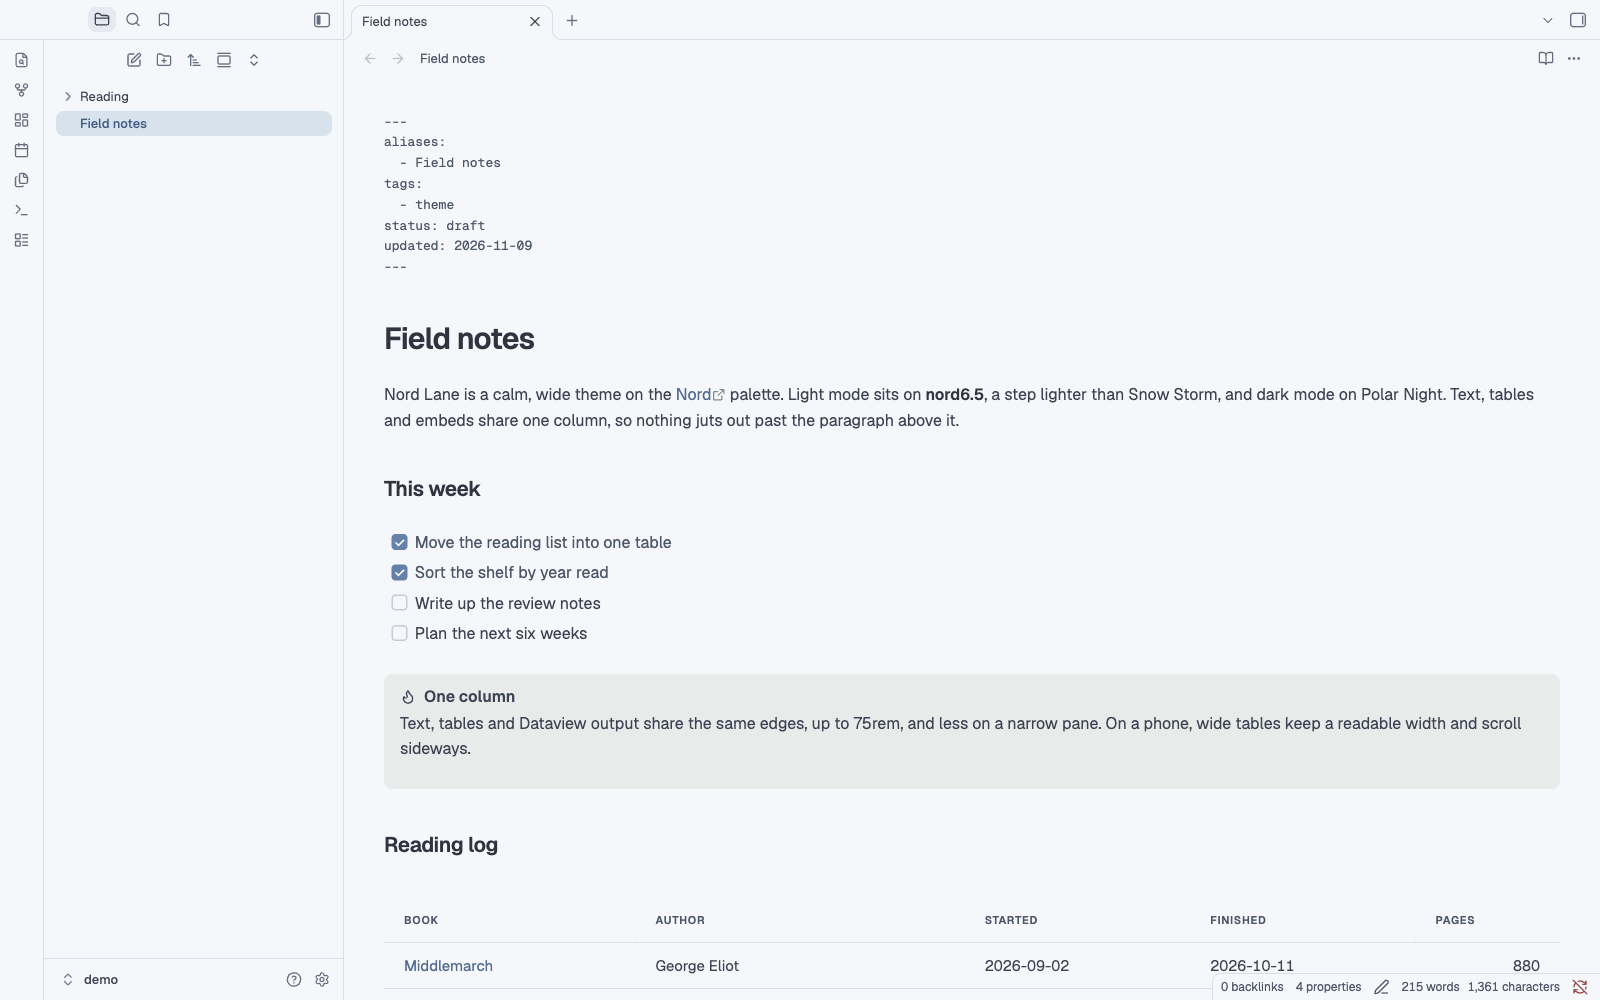
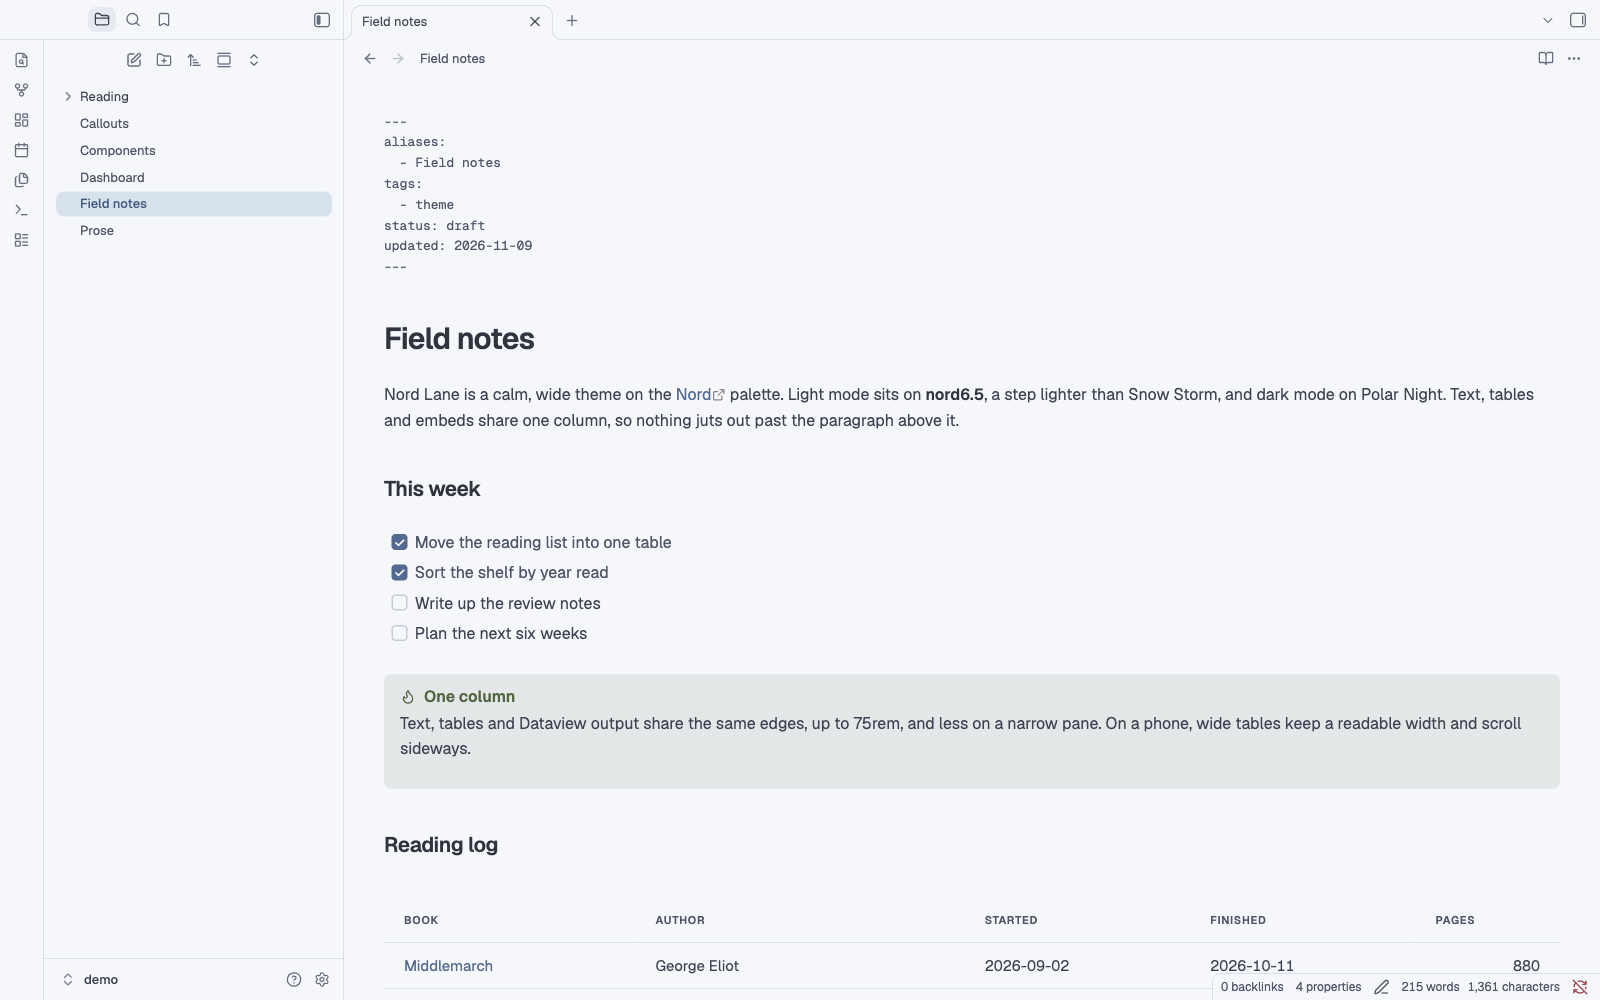
docs: document the nl-* and gc-* component classes
docs/components.md gives the markup each class expects: page head,
controls, sections, stats, tables with bands, totals and column helpers,
pills, heat cells and heatmaps, and cover cards with their corners,
variants, book stand-ins and filtering. demo/Components.md shows the
main pieces as static HTML, and its screenshot goes in the docs. The
README screenshots and cover.png are retaken to show the callout
colours.

Closes #5

Changed region(s): [[0.0312, 0.093, 0.2188, 0.217], [0.2812, 0.682, 0.3125, 0.713]]

diff --git a/docs/components.md b/docs/components.md
@@ -1,0 +1,133 @@
+# Components
+
+Nord Lane styles two families of classes for pages built with dataviewjs: `nl-*` for dashboards and `gc-*` for cover cards. The theme only styles them; your view writes the markup, usually with Obsidian's `createDiv` and `createEl`. They do nothing in notes that don't use them.
+
+`demo/Components.md` shows the main pieces as static HTML:
+
+![Components](../screenshots/components.png)
+
+## Page
+
+Wrap a view in `.nl-page`. It sets the 14 px base and tabular numbers. Separate its parts with `.nl-block`.
+
+```html
+<div class="nl-page">
+  <div class="nl-head nl-block">
+    <div>
+      <div class="nl-title">Reading</div>
+      <div class="nl-sub">A subtitle</div>
+    </div>
+    <div class="nl-controls">…</div>
+  </div>
+  <div class="nl-block">…</div>
+</div>
+```
+
+The controls are:
+
+- `button.nl-btn`: a button, optionally with an SVG icon.
+- `.nl-nav`: previous, label, next.
+- `.nl-chips > button.nl-chip-btn`: filter chips; add `.is-active` to the chosen one.
+
+## Sections
+
+```html
+<div class="nl-sec">
+  <div class="nl-sec-t">Week by week</div>
+  <div class="nl-sec-m">a note on the right</div>
+</div>
+```
+
+Section titles are the size of `##` in a note.
+
+## Stats
+
+```html
+<div class="nl-stats">
+  <div class="nl-stat">
+    <div class="nl-stat-v">12</div>
+    <div class="nl-stat-l">books this year</div>
+    <div class="nl-stat-s">8 finished</div>
+  </div>
+  …
+</div>
+```
+
+- **Layout:** six per row, three in a pane under 1,100 px, two under 700 px. `--nl-stat-cols` changes the count.
+- **Tone:** `.nl-tone-red`, `.nl-tone-green`, `.nl-tone-amber` or `.nl-tone-accent` on the value.
+
+## Tables
+
+```html
+<div class="nl-tablewrap">
+  <table class="nl-table">
+    <thead><tr><th>Book</th><th class="al-r">Pages</th></tr></thead>
+    <tbody>
+      <tr class="nl-group"><td colspan="2"><span>2026</span><span class="nl-count">3</span></td></tr>
+      <tr><td>Middlemarch</td><td class="al-r">880</td></tr>
+      <tr class="nl-total"><td>Total</td><td class="al-r">880</td></tr>
+    </tbody>
+  </table>
+</div>
+```
+
+- **Rows:** `tr.nl-group` is a band; `.nl-count` and `.nl-right` go inside it. `tr.nl-total` is the closing row.
+- **Columns:** `.al-r` and `.al-c` align a column. `.wrap` lets a cell wrap to two lines. `.nl-hide-sm` hides a column under 700 px, and `.nl-hide-md` under 1,100 px.
+- **Narrow panes:** under 700 px, `table.nl-stack` turns rows into stacked entries, labelled by each cell's `data-label`.
+- **Wide tables:** `.nl-regular` and `.nl-turned` hold a wide table and its turned version, one row per week or month. The turned one shows in panes under 1,180 px.
+- **Inside cells:**
+  - `.nl-pill.accent`, `.green`, `.amber`, `.red`, `.violet` or `.neutral`
+  - `.nl-heat.l1`, `.l2` or `.l3`: a heat cell
+  - `.nl-chip`
+  - `.nl-muted`, `.nl-faint`
+  - `.nl-trunc`: an ellipsis
+  - `.nl-thumb`: a small image
+
+## Heat
+
+The three shades are `--nl-heat-1`, `--nl-heat-2` and `--nl-heat-3`, and `--nl-on-heat-1/2/3` is the text on each. Both pass WCAG AA in both modes.
+
+```html
+<div class="nl-hm">
+  <div class="nl-heatmap">
+    <div class="nl-hm-col"><span class="nl-hm-m">Jan</span><i class="l1"></i><i></i><i class="l3"></i>…</div>
+    …
+  </div>
+  <div class="nl-legend">…</div>
+</div>
+```
+
+Each cell is an `i`. A bare `i` has a note with nothing to count, `i.none` has no note, `i.l1` to `i.l3` are the shades, and `i.future` is a day still to come. A column marked `.is-old` is dropped on narrow panes.
+
+There are also bar charts (`.nl-bars`, `.nl-chart`) and a timeline (`.nl-timeline`, with `.nl-tl-*` parts for the axis, ticks, dots, blocks, labels and today's line). See section 10 of `src/theme.src.css`.
+
+## Cards
+
+```html
+<div class="gc-grid">
+  <div class="gc-card">
+    <div class="gc-cover">
+      <img src="…" alt="">
+      <div class="gc-rating r8">8.2</div>
+      <div class="gc-badge gc-bl">EN</div>
+    </div>
+    <a class="internal-link gc-title" data-href="Note">Title</a>
+    <div class="gc-sub">Subtitle</div>
+    <div class="gc-meta"><span>2021</span><span>1–4</span></div>
+  </div>
+</div>
+```
+
+- **Cover:** the frame is transparent, so a box that isn't square sits on the card. A cover without an image gets a filled `.gc-noart` placeholder.
+- **Corners:**
+  - `.gc-badge` with `.gc-tl` (top left), `.gc-bl` (bottom left) or `.gc-br` (bottom right)
+  - `.gc-rating` with `.r5` to `.r8` (top right)
+  - `.gc-po`: an accent badge
+- **Below the title:**
+  - `.gc-meta`
+  - `.gc-ticks > i.on` (or `i.done`): progress ticks
+  - `.gc-foot` with `.gc-plays` and `.gc-cost`
+  - `.gc-strip`: small thumbnails
+- **Variants:** `.gc-card.is-order` draws a dashed border.
+- **Books:** `.gc-grid.is-books` and `.gc-card.is-book` use 2:3 covers. `.gc-nocover > .gc-nocover-t + .gc-nocover-a` is a typeset stand-in, and `.gc-group` is a band across the grid.
+- **Filtering:** set the `hidden` attribute on the cards that don't match.

diff --git a/demo/Components.md b/demo/Components.md
@@ -1,0 +1,17 @@
+---
+cssclasses:
+  - dashboard
+---
+
+# Components
+
+The `nl-*` and `gc-*` classes the theme styles, as static HTML. A dataviewjs view builds the same markup; see `docs/components.md`.
+
+<div class="nl-page">
+<div class="nl-head nl-block"><div><div class="nl-title">Reading</div><div class="nl-sub">A page head: title, subtitle and controls</div></div><div class="nl-controls"><div class="nl-chips"><button class="nl-chip-btn is-active">All 12</button><button class="nl-chip-btn">Open 4</button><button class="nl-chip-btn">Done 8</button></div></div></div>
+<div class="nl-block"><div class="nl-stats"><div class="nl-stat"><div class="nl-stat-v">12</div><div class="nl-stat-l">books this year</div><div class="nl-stat-s">8 finished</div></div><div class="nl-stat"><div class="nl-stat-v">4</div><div class="nl-stat-l">reading now</div><div class="nl-stat-s">oldest: 3 weeks</div></div><div class="nl-stat"><div class="nl-stat-v">31</div><div class="nl-stat-l">pages a day</div><div class="nl-stat-s">best: March</div></div><div class="nl-stat"><div class="nl-stat-v">6:40</div><div class="nl-stat-l">average sleep</div><div class="nl-stat-s">lowest: 5:12</div></div><div class="nl-stat"><div class="nl-stat-v">9 of 12</div><div class="nl-stat-l">weekly notes</div><div class="nl-stat-s">3 missing</div></div><div class="nl-stat"><div class="nl-stat-v">2</div><div class="nl-stat-l">past due</div><div class="nl-stat-s">oldest: 5 days</div></div></div></div>
+<div class="nl-block"><div class="nl-sec"><div class="nl-sec-t">A section</div><div class="nl-sec-m">section titles are the size of ## in a note</div></div>
+<div class="nl-tablewrap"><table class="nl-table"><thead><tr><th>Book</th><th>Status</th><th class="al-c" style="width: 90px">Week</th><th class="al-r">Pages</th></tr></thead><tbody><tr class="nl-group"><td colspan="4"><span>2026</span><span class="nl-count">3</span></td></tr><tr><td>Middlemarch</td><td><span class="nl-pill green">Done</span></td><td class="al-c"><span class="nl-heat l3">7</span></td><td class="al-r">880</td></tr><tr><td>The Peregrine</td><td><span class="nl-pill accent">Reading</span></td><td class="al-c"><span class="nl-heat l2">4</span></td><td class="al-r">191</td></tr><tr><td>Walden</td><td><span class="nl-pill amber">Paused</span></td><td class="al-c"><span class="nl-heat l1">1</span></td><td class="al-r">352</td></tr><tr class="nl-total"><td>Total</td><td></td><td class="al-c">12</td><td class="al-r">1,423</td></tr></tbody></table></div></div>
+<div class="nl-block"><div class="nl-sec"><div class="nl-sec-t">Cards</div><div class="nl-sec-m">gc-grid of gc-card; books use is-books and is-book</div></div>
+<div class="gc-grid is-books"><div class="gc-group"><span>2026</span><span class="nl-count">3</span></div><div class="gc-card is-book"><div class="gc-cover"><div class="gc-nocover"><div class="gc-nocover-t">Middlemarch</div><div class="gc-nocover-a">George Eliot</div></div><div class="gc-rating r8">9</div></div><a class="internal-link gc-title">Middlemarch</a><div class="gc-sub">George Eliot</div></div><div class="gc-card is-book"><div class="gc-cover"><div class="gc-nocover"><div class="gc-nocover-t">The Peregrine</div><div class="gc-nocover-a">J. A. Baker</div></div><div class="gc-po">READING</div></div><a class="internal-link gc-title">The Peregrine</a><div class="gc-sub">J. A. Baker</div></div><div class="gc-card is-book"><div class="gc-cover"><div class="gc-nocover"><div class="gc-nocover-t">Walden</div><div class="gc-nocover-a">Henry David Thoreau</div></div><div class="gc-badge gc-br">BACKLOG</div></div><a class="internal-link gc-title">Walden</a><div class="gc-sub">Henry David Thoreau</div></div></div></div>
+</div>

diff --git a/README.md b/README.md
@@ -15,7 +15,7 @@ A calm, wide Obsidian theme on the [Nord](https://www.nordtheme.com) palette, wi
 - **Quiet frontmatter.** If you show properties as YAML source, the frontmatter is 13 px monospace in muted ink.
 - **A heat calendar.** With the [Calendar](https://github.com/liamcain/obsidian-calendar-plugin) plugin, each day is a square shaded by how much its note holds, and the month fits any sidebar width.
 - **Phones and narrow panes.** Layouts respond to the width of the note pane (container queries), so a narrow split on the Mac behaves like a phone.
-- **Extras for dataviewjs dashboards.** `nl-*` classes (stats, tables, heatmaps, timelines) and `gc-*` cover cards for collections. They do nothing unless your own views use them.
+- **Extras for dataviewjs dashboards.** `nl-*` classes (stats, tables, heatmaps, timelines) and `gc-*` cover cards for collections. They do nothing unless your own views use them; [docs/components.md](docs/components.md) shows the markup each one expects.
 
 ## Install
 

diff --git a/CHANGELOG.md b/CHANGELOG.md
@@ -8,6 +8,7 @@ All notable changes to Nord Lane. The format follows [Keep a Changelog](https://
 
 - CI checks that the committed `theme.css` and `manifest.json` match the source, and that the manifest and cover meet Obsidian's requirements.
 - `AGENTS.md`: the rules for agents working in this repo.
+- `docs/components.md` and `demo/Components.md`: the markup for the `nl-*` and `gc-*` classes, with a screenshot.
 - `tools/contrast.py`: a contrast audit of the theme's text and background pairs in both modes, run in CI.
 - `python3 build.py --no-fonts <vault>` installs the theme without embedded fonts (about 60 KB instead of 225), for vaults that use installed fonts. The repo's `theme.css` stays the full build.
 - Style Settings support: column width, table bleed, prose measure, table text size and frontmatter size (`--nl-frontmatter-size`, new), plus a Meta-strip toggle.
